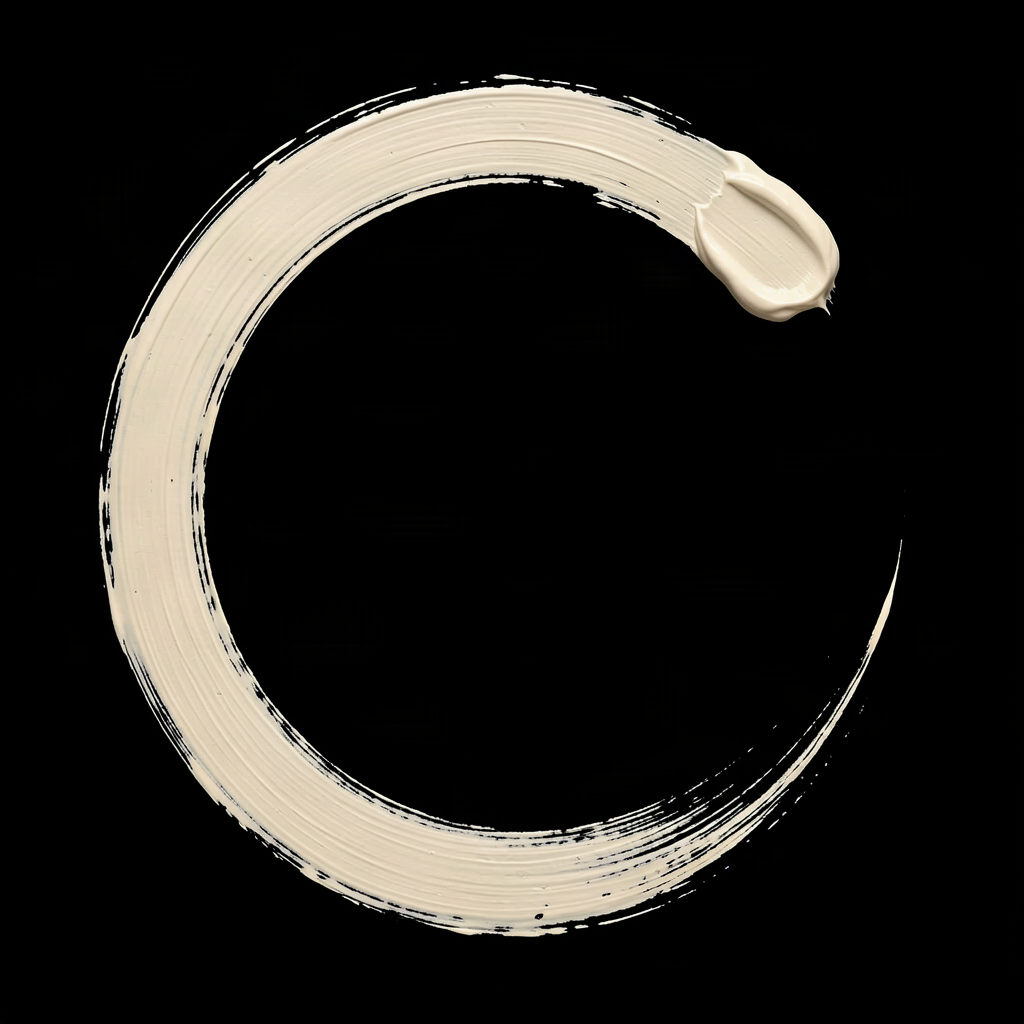
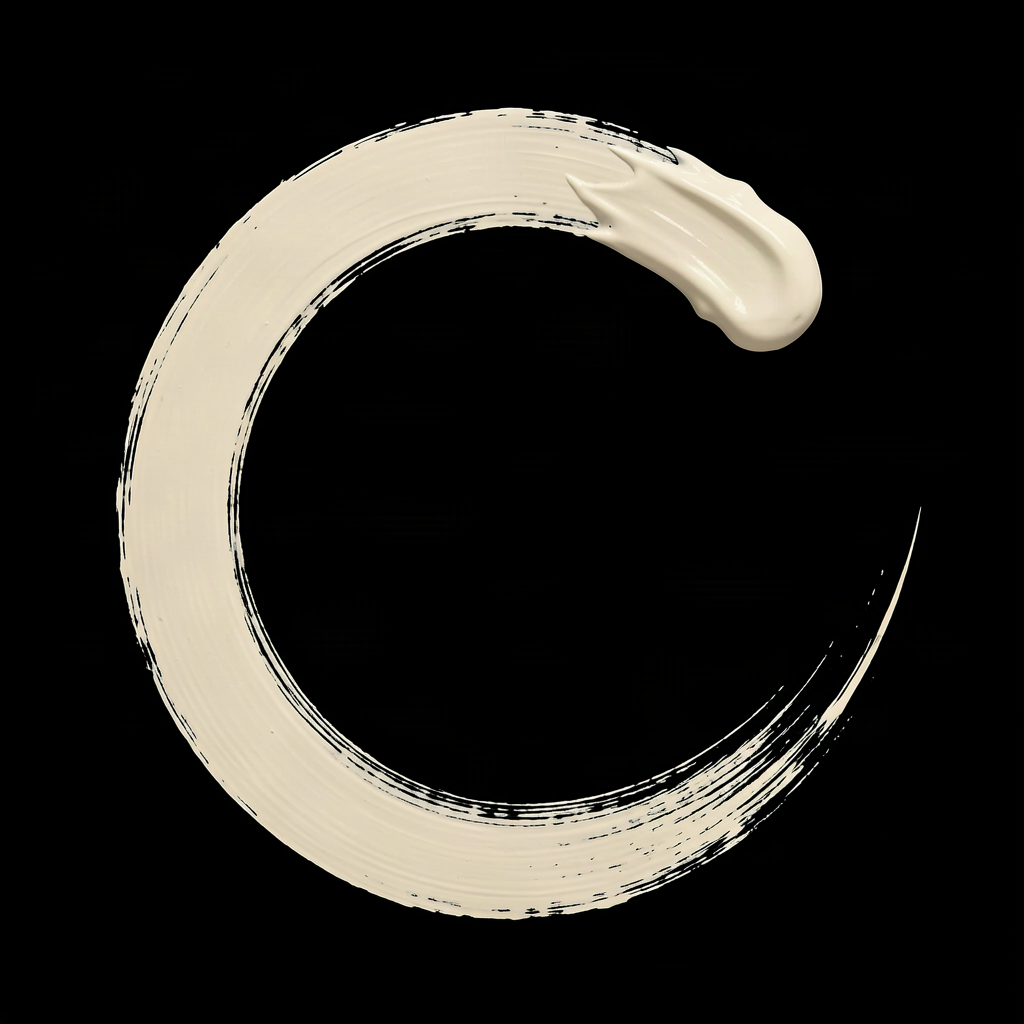
Intro brush image v3 (full stroke inside frame) + shift 新颐元 left for balance

Changed region(s): [[0.0938, 0.0625, 0.9062, 0.9375]]

diff --git a/style.css b/style.css
@@ -658,7 +658,7 @@ html[data-lang="zh"] .langbtn{letter-spacing:normal}
 @property --ring{syntax:'<angle>';initial-value:360deg;inherits:false}
 .half{overflow:hidden}
 .brush{position:absolute;top:0;height:100%;width:200%;z-index:1;pointer-events:none;
-  background:url(images/brush-ring.png) center/contain no-repeat;
+  background:url(images/brush-ring.png) center/86% no-repeat;
   mix-blend-mode:screen;
   opacity:.94;--ring:360deg;
   -webkit-mask-image:conic-gradient(from 45deg, transparent 0deg var(--ring), #000 var(--ring) 360deg);
@@ -667,3 +667,6 @@ html[data-lang="zh"] .langbtn{letter-spacing:normal}
 @keyframes ringdraw{from{--ring:360deg}to{--ring:0deg}}
 .half .mark{z-index:2}
 @media(max-width:900px){.brush{background-size:auto 78%}}
+
+/* 新颐元整体左移，平衡画面（原来贴在接缝上） */
+.half.l .mark.zh{right:38px}

diff --git a/products.html b/products.html
@@ -8,7 +8,7 @@
 <link rel="alternate" hreflang="en" href="https://novocanvo.com/products.html">
 <link rel="alternate" hreflang="zh-CN" href="https://cn.novocanvo.com/products.html">
 <link rel="alternate" hreflang="x-default" href="https://novocanvo.com/products.html">
-<link rel="stylesheet" href="style.css?v=21">
+<link rel="stylesheet" href="style.css?v=22">
 </head>
 <body>
 
@@ -290,6 +290,6 @@ function applyTheme(t){document.documentElement.dataset.theme=t; window.refreshT
 function toggleTheme(){applyTheme(document.documentElement.dataset.theme==='paper'?'':'paper');}
 try{var q=new URLSearchParams(location.search).get('t');if(q==='paper')applyTheme('paper');}catch(e){}
 </script>
-<script src="lang.js?v=21"></script>
+<script src="lang.js?v=22"></script>
 </body>
 </html>

diff --git a/gallery.html b/gallery.html
@@ -8,7 +8,7 @@
 <link rel="alternate" hreflang="en" href="https://novocanvo.com/gallery.html">
 <link rel="alternate" hreflang="zh-CN" href="https://cn.novocanvo.com/gallery.html">
 <link rel="alternate" hreflang="x-default" href="https://novocanvo.com/gallery.html">
-<link rel="stylesheet" href="style.css?v=21">
+<link rel="stylesheet" href="style.css?v=22">
 </head>
 <body>
 
@@ -147,6 +147,6 @@ function applyTheme(t){document.documentElement.dataset.theme=t; window.refreshT
 function toggleTheme(){applyTheme(document.documentElement.dataset.theme==='paper'?'':'paper');}
 try{var q=new URLSearchParams(location.search).get('t');if(q==='paper')applyTheme('paper');}catch(e){}
 </script>
-<script src="lang.js?v=21"></script>
+<script src="lang.js?v=22"></script>
 </body>
 </html>

diff --git a/contact.html b/contact.html
@@ -8,7 +8,7 @@
 <link rel="alternate" hreflang="en" href="https://novocanvo.com/contact.html">
 <link rel="alternate" hreflang="zh-CN" href="https://cn.novocanvo.com/contact.html">
 <link rel="alternate" hreflang="x-default" href="https://novocanvo.com/contact.html">
-<link rel="stylesheet" href="style.css?v=21">
+<link rel="stylesheet" href="style.css?v=22">
 </head>
 <body>
 
@@ -147,6 +147,6 @@ function applyTheme(t){document.documentElement.dataset.theme=t;
 function toggleTheme(){applyTheme(document.documentElement.dataset.theme==='paper'?'':'paper');}
 try{var q=new URLSearchParams(location.search).get('t');if(q==='paper')applyTheme('paper');}catch(e){}
 </script>
-<script src="lang.js?v=21"></script>
+<script src="lang.js?v=22"></script>
 </body>
 </html>

diff --git a/quality.html b/quality.html
@@ -8,7 +8,7 @@
 <link rel="alternate" hreflang="en" href="https://novocanvo.com/quality.html">
 <link rel="alternate" hreflang="zh-CN" href="https://cn.novocanvo.com/quality.html">
 <link rel="alternate" hreflang="x-default" href="https://novocanvo.com/quality.html">
-<link rel="stylesheet" href="style.css?v=21">
+<link rel="stylesheet" href="style.css?v=22">
 </head>
 <body>
 
@@ -182,6 +182,6 @@ function applyTheme(t){document.documentElement.dataset.theme=t;
 function toggleTheme(){applyTheme(document.documentElement.dataset.theme==='paper'?'':'paper');}
 try{var q=new URLSearchParams(location.search).get('t');if(q==='paper')applyTheme('paper');}catch(e){}
 </script>
-<script src="lang.js?v=21"></script>
+<script src="lang.js?v=22"></script>
 </body>
 </html>

diff --git a/supply.html b/supply.html
@@ -8,7 +8,7 @@
 <link rel="alternate" hreflang="en" href="https://novocanvo.com/supply.html">
 <link rel="alternate" hreflang="zh-CN" href="https://cn.novocanvo.com/supply.html">
 <link rel="alternate" hreflang="x-default" href="https://novocanvo.com/supply.html">
-<link rel="stylesheet" href="style.css?v=21">
+<link rel="stylesheet" href="style.css?v=22">
 </head>
 <body>
 
@@ -161,6 +161,6 @@ function applyTheme(t){document.documentElement.dataset.theme=t;
 function toggleTheme(){applyTheme(document.documentElement.dataset.theme==='paper'?'':'paper');}
 try{var q=new URLSearchParams(location.search).get('t');if(q==='paper')applyTheme('paper');}catch(e){}
 </script>
-<script src="lang.js?v=21"></script>
+<script src="lang.js?v=22"></script>
 </body>
 </html>

diff --git a/team.html b/team.html
@@ -8,7 +8,7 @@
 <link rel="alternate" hreflang="en" href="https://novocanvo.com/team.html">
 <link rel="alternate" hreflang="zh-CN" href="https://cn.novocanvo.com/team.html">
 <link rel="alternate" hreflang="x-default" href="https://novocanvo.com/team.html">
-<link rel="stylesheet" href="style.css?v=21">
+<link rel="stylesheet" href="style.css?v=22">
 </head>
 <body>
 
@@ -164,6 +164,6 @@ function applyTheme(t){document.documentElement.dataset.theme=t;
 function toggleTheme(){applyTheme(document.documentElement.dataset.theme==='paper'?'':'paper');}
 try{var q=new URLSearchParams(location.search).get('t');if(q==='paper')applyTheme('paper');}catch(e){}
 </script>
-<script src="lang.js?v=21"></script>
+<script src="lang.js?v=22"></script>
 </body>
 </html>

diff --git a/index.html b/index.html
@@ -8,7 +8,7 @@
 <link rel="alternate" hreflang="en" href="https://novocanvo.com/index.html">
 <link rel="alternate" hreflang="zh-CN" href="https://cn.novocanvo.com/index.html">
 <link rel="alternate" hreflang="x-default" href="https://novocanvo.com/index.html">
-<link rel="stylesheet" href="style.css?v=21">
+<link rel="stylesheet" href="style.css?v=22">
 </head>
 <body>
 
@@ -236,6 +236,6 @@ try{var q=new URLSearchParams(location.search).get('t');if(q==='paper')applyThem
   }
 })();
 </script>
-<script src="lang.js?v=21"></script>
+<script src="lang.js?v=22"></script>
 </body>
 </html>
